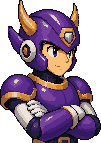
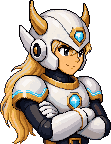
Neo HQ: redesign Alcapone (white + gold + ice-blue, ponytail)

diff --git a/js/agents.js b/js/agents.js
@@ -7,7 +7,7 @@ export const AGENTS = [
   { id:"makelar", name:"makelar", title:"my quant", gender:"f", accent:"#ffaa55",
     work:"action", emotes:{work:"$", idle:"$"},
     lines:["Harga segini? Nego dikit lah.","Data dulu, baru deal.","Risiko udah aku hitung, aman.","Grafiknya cakep, cuan nih.","Win-win, semua senyum."] },
-  { id:"alcapone", name:"Alcapone", title:"Alpha", gender:"m", accent:"#b48cff",
+  { id:"alcapone", name:"Alcapone", title:"Alpha", gender:"m", accent:"#38c8ff",
     work:"action", emotes:{work:"♠", idle:"…"},
     lines:["Tenang. Semua udah aku atur.","Kerjaan beres dulu, baru ngopi.","Alpha nggak pernah panik.","Rapi, cepat, tuntas.","Markas aman terkendali."] },
   { id:"sisotoy", name:"el sotoy", title:"ngide", gender:"m", accent:"#ffd447",
@@ -27,7 +27,7 @@ export const AGENTS = [
 export const LOOKS = {
   nerd:     "zirah merah-putih, visor cyan transparan, rambut hitam belah pinggir, bawa tablet",
   makelar:  "zirah oranye-putih, headset + mic, rambut panjang auburn, bawa gulungan kontrak",
-  alcapone: "zirah ungu, helm crest dengan sirip emas & tanduk, bahu bulat besar, sabuk emas",
+  alcapone: "zirah putih mutiara dengan trim emas & aksen biru es (permata helm, inti dada menyala, garis cahaya di bahu & sepatu bot), helm crest dengan sirip emas & tanduk, bahu bulat besar, sabuk emas, bodysuit hitam arang, rambut panjang pirang keemasan dikuncir besar yang berayun dari belakang helm",
   sisotoy:  "zirah kuning, helm bulat dengan antena bola nyala, telunjuk 'aku ada ide!'",
   kuku:     "zirah teal, rambut cepol, headset kuping kucing, burung robot kecil di kepala, bawa HP",
   kurir:    "zirah violet, topi bersayap, tas kurir + amplop (siap antar lowongan)",

diff --git a/tools/anim_build.py b/tools/anim_build.py
@@ -11,6 +11,7 @@ from anim_extract import extract, down, load_pal, ROOT
 from build_poses import CUT
 from eyes2 import close_eyes
 from diag_cleanup import clean_dots
+from hair_sway import sway, SWAY
 
 CW, CH, BASE = 64, 96, 94
 OUT = f"{ROOT}/assets/sprites"
@@ -30,6 +31,7 @@ def paste(dst, src, ox, oy):
 SHEETS = {}
 def sheet(name, **kw):
     kw.setdefault("merge", 0)
+    if name in SPLIT_N: kw["n"] = SPLIT_N[name]
     key = (name, tuple(sorted(kw.items())))
     if key not in SHEETS: SHEETS[key] = extract(name, **kw)
     return SHEETS[key]
@@ -106,8 +108,9 @@ def flash(c, R, light=True):
 CFG = {
     "makelar": dict(idle=("makelar_idle_v1", [0, 1, 2, 4]), walk=("makelar_walk_v1", [0, 2, 4, 6, 8]), back=("makelar_back_v1", [0, 1, 2, 3]),
                     tp=("makelar_teleport_v1", [5, 6, 7]), de=("makelar_defeat_v1", 0)),
-    "alcapone": dict(idle=("alcapone_idle_v1", [0, 1, 2, 3]), walk=("alcapone_walk_v2", [0, 1, 2, 3, 4, 5]), back=("alcapone_back_v1", [0, 1, 2, 3]),
-                     tp=("alcapone_teleport_v1", [5, 6, 7]), de=("alcapone_defeat_v1", 0)),
+    # alcapone = redesign B (white pearl + gold + ice-blue, golden-blond ponytail); defeat keeps the AI head (hair whips up)
+    "alcapone": dict(idle=("alcapone_idle_v2", [0, 1, 2, 3]), walk=("alcapone_walk_v3", [0, 1, 2, 3, 4, 5]), back=("alcapone_back_v2", [0, 1, 2, 3]),
+                     tp=("alcapone_teleport_v2", [5, 6, 7]), tp_f=(.69, .86, .98), de=("alcapone_defeat_v2", 0), de_head=False, de_h=84, de_mode="box"),
     "sisotoy": dict(idle=("sisotoy_idle_v1", [0, 1, 2, 3]), walk=("sisotoy_walk_v1", [0, 1, 2, 3, 4, 5]), back=("sisotoy_back_v1", [0, 1, 2, 3]),
                     tp=("sisotoy_teleport_v1", [3, 5, 6]), de=("sisotoy_defeat_v1", 0)),
     "kuku": dict(idle=("kuku_idle_v1", [0, 1, 2, 3]), walk=("kuku_walk_v1", [0, 1, 2, 3, 4, 5]), back=("kuku_back_v1", [0, 1, 2, 3]),
@@ -125,12 +128,18 @@ CFG = {
 DIAG = {
     "nerd":     dict(walkd=([0, 1, 2, 3, 4, 5], None, True), backd=([0, 1, 2, 3], None, False)),
     "makelar":  dict(walkd=([0, 1, 2, 3, 4, 5], None, True), backd=([0, 1, 2, 3], None, False)),
-    "alcapone": dict(walkd=([0, 1, 2, 3, 4, 5], None, True), backd=([3, 4, 5, 6, 7], None, False)),
+    "alcapone": dict(walkd=([0, 1, 2, 3, 4, 5], None, True), backd=([0, 1, 2, 3, 4, 5], None, False)),
     "sisotoy":  dict(walkd=([0, 1, 2, 3, 4, 5], None, True), backd=([0, 1, 2, 3], None, False)),
     "kuku":     dict(walkd=([0, 1, 2, 3, 4, 5], None, True), backd=([0, 1, 2, 3], None, False)),
     "kurir":    dict(walkd=([0, 1, 2, 3, 4, 5], None, True), backd=([0, 1, 2, 3], None, False)),
     "jack":     dict(walkd=([0, 1, 2, 3, 4, 5], None, True), backd=([0, 1, 2, 3], None, False)),
 }
+
+# diagonal source sheet when it is not anim/raw/<id>_<seq>.png (versioned redesigns)
+DIAG_SRC = {"alcapone": dict(walkd="alcapone_walkd_v2", backd="alcapone_backd_v2")}
+
+# sheets whose sprites touch (long hair over the next sprite): number of characters, cut by anim_extract.split_n
+SPLIT_N = {"alcapone_walk_v3": 6, "alcapone_walkd_v2": 6}
 
 # agents whose diagonal frames get the dot cleanup (tools/diag_cleanup.py): vertical band per sequence
 DIAG_CLEAN = {"kuku": dict(walkd=(0.30, 0.62), backd=(0.36, 0.62)), "kurir": dict(walkd=(0.30, 0.62), backd=(0.36, 0.62))}
@@ -146,7 +155,7 @@ def chars(name):
 def add_diag(id_, add, seqs, H, hs):
     pal = load_pal(id_)
     for seq, (idx, order, head) in DIAG[id_].items():
-        name = f"{id_}_{seq}"; ch = chars(name)
+        name = DIAG_SRC.get(id_, {}).get(seq, f"{id_}_{seq}"); ch = chars(name)
         out = items_scaled(name, [ch[i] for i in idx], std_h(name), H, pal, split=True)
         if head: out = [hs(o) for o in out]
         if seq in BACK_HEAD.get(id_, {}):                                # one 3/4-back head + bird for every frame (bob follows the body)
@@ -195,7 +204,9 @@ def build_agent(id_, nerd_cells, nerd_seqs):
     H = MASTER.shape[0]; NECK = CUT[id_][0]; HEAD = MASTER[:NECK].copy()
     hs = lambda o: head_swap(o, HEAD, NECK)
     frames, seqs = [], {}
-    def add(seq, cells): seqs[seq] = list(range(len(frames), len(frames) + len(cells))); frames.extend(cells)
+    def add(seq, cells):
+        if seq in SWAY.get(id_, {}): cells = [sway(cl, d) for cl, d in zip(cells, SWAY[id_][seq])]   # ponytail swing
+        seqs[seq] = list(range(len(frames), len(frames) + len(cells))); frames.extend(cells)
     def pick(key, idx=None, head=True):
         name, ix = c[key]; ix = idx if idx is not None else ix
         out = items_scaled(name, ix if isinstance(ix, list) else [ix], std_h(name), H, pal, split=True)
@@ -208,13 +219,16 @@ def build_agent(id_, nerd_cells, nerd_seqs):
     add("back", [cell(o, "torso") for o in pick("back", head=False)])
     # teleport: shared beam + splash (tinted), white silhouette of this agent's idle, 3 AI landing frames, idle0
     name, ix = c["tp"]                                                 # crouch / half / rise normalised to 80/88/95 % of the master
-    land = [hs(item(name, i, round(H * f), True, pal, split=True)) for i, f in zip(ix, (.80, .88, .95))]
+    land = [hs(item(name, i, round(H * f), True, pal, split=True)) for i, f in zip(ix, c.get("tp_f", (.80, .88, .95)))]
     nb = [nerd_cells[i] for i in nerd_seqs["tp"][:2]]
     add("tp", [tint_fx(nb[0], R, True), tint_fx(nb[1], R, True), flash(cell(idle[0]), R, False)] + [cell(o) for o in land] + [cell(idle[0])])
     # defeat: own stumble frame, then shared flash + orb rings tinted to the palette
-    st = pick("de")[0]
+    if "de_h" in c: st = item(c["de"][0], c["de"][1], c["de_h"], True, pal, split=True)   # tallest item = hair, not body
+    else: st = pick("de")[0]
+    if c.get("de_head", True) and "de_h" in c: st = hs(st)
     orbs = [tint_fx(nerd_cells[i], R) for i in nerd_seqs["def"][3:]]
-    add("def", [cell(st), flash(cell(st), R, True), flash(cell(st), R, False)] + orbs)
+    dm = c.get("de_mode", "feet")                                      # "box": wide stumble pose centred so it is not clipped
+    add("def", [cell(st, dm), flash(cell(st, dm), R, True), flash(cell(st, dm), R, False)] + orbs)
     add_diag(id_, add, seqs, H, hs)
     return frames, seqs
 

diff --git a/tools/alcapone_b_evidence.py b/tools/alcapone_b_evidence.py
@@ -1,0 +1,57 @@
+"""Evidence for the Alcapone B rebuild: screenshots/alcapone-b-lineup.png (7 crew idle + every Alcapone kairo cell,
+classic frames and icons) and screenshots/alcapone-b-anim.gif (walk/back/walkd/backd + mirrors at game timing, 4x)."""
+import json, os
+from PIL import Image, ImageDraw, ImageFont
+ROOT = os.path.dirname(os.path.dirname(os.path.abspath(__file__))); SP = f"{ROOT}/assets/sprites"
+K = json.load(open(f"{SP}/kairo.json"))["agents"]; FS = json.load(open(f"{SP}/sprites.json"))["frames"]
+F = ImageFont.truetype(f"{ROOT}/fonts/PressStart2P-Regular.ttf", 10); FS8 = ImageFont.truetype(f"{ROOT}/fonts/PressStart2P-Regular.ttf", 8)
+IDS = ["nerd", "makelar", "alcapone", "sisotoy", "kuku", "kurir", "jack"]
+NAMES = {"nerd": "nerd", "makelar": "makelar", "alcapone": "Alcapone", "sisotoy": "el sotoy", "kuku": "kuku", "kurir": "Kurir", "jack": "bang jack"}
+ACC = dict(__import__("re").findall(r'id:"(\w+)".*?accent:"(#[0-9a-fA-F]{6})"', open(f"{ROOT}/js/agents.js").read()))
+sheet = {i: Image.open(f"{SP}/{K[i]['sheet']}").convert("RGBA") for i in IDS}
+cellk = lambda i, f: sheet[i].crop((f * 64, 0, f * 64 + 64, 96))
+up = lambda im, s: im.resize((im.width * s, im.height * s), Image.NEAREST)
+BG = (17, 11, 43, 255)
+
+def lineup():
+    a = K["alcapone"]; lab = {f: f"{s}{j}" for s, fs in a["seq"].items() for j, f in enumerate(fs)}; n = sheet["alcapone"].width // 64
+    old = Image.open(f"{SP}/alcapone.png").convert("RGBA"); per = 14; S = 3
+    W = per * 64 * S + 40; rows = (n + per - 1) // per
+    H = 40 + 96 * 4 + 40 + 40 + rows * (96 * S + 18) + 40 + 96 * 2 + 30
+    c = Image.new("RGBA", (W, H), BG); d = ImageDraw.Draw(c)
+    d.text((20, 14), "ALCAPONE B · 7 kru (idle, 4x) · putih mutiara + emas + biru es #38c8ff", fill=(255, 230, 120), font=F)
+    x = 20
+    for i in IDS:
+        z = up(cellk(i, K[i]["seq"]["idle"][0]), 4).crop((40, 0, 216, 384)); c.alpha_composite(z, (x, 36))
+        d.text((x + 10, 36 + 384 + 4), NAMES[i], fill=ACC[i], font=F); x += 182
+    y = 36 + 384 + 34; d.text((20, y), f"semua sel alcapone_kairo.png ({n} sel, 3x) - label = urutan di kairo.json", fill=(255, 230, 120), font=F); y += 24
+    for f in range(n):
+        xx = 20 + (f % per) * 64 * S; yy = y + (f // per) * (96 * S + 18)
+        c.alpha_composite(up(cellk("alcapone", f), S), (xx, yy + 14)); d.text((xx + 4, yy), f"{f}:{lab.get(f, '')}", fill=(53, 242, 255), font=FS8)
+    y += rows * (96 * S + 18) + 10
+    d.text((20, y), "frame klasik alcapone.png (2x) + ikon 40x40 + potret dialog", fill=(255, 230, 120), font=F); y += 20
+    for j, nm in enumerate(FS):
+        c.alpha_composite(up(old.crop((j * 64 + 8, 0, j * 64 + 56, 96)), 2), (20 + j * 96, y))
+    icon = Image.open(f"{SP}/alcapone_portrait.png").convert("RGBA"); c.alpha_composite(up(icon, 3), (20 + len(FS) * 96 + 10, y + 20))
+    por = Image.open(f"{ROOT}/assets/portraits/alcapone.png").convert("RGBA")
+    c2 = Image.new("RGBA", (max(W, 20 + len(FS) * 96 + 150 + por.width * 2), H + max(0, por.height * 2 - 200)), BG); c2.alpha_composite(c, (0, 0))
+    c2.alpha_composite(up(por, 2), (20 + len(FS) * 96 + 150, y - 10)); c = c2
+    c.convert("RGB").save(f"{ROOT}/screenshots/alcapone-b-lineup.png")
+
+def anim():
+    a = K["alcapone"]; S = 4
+    cols = [("walk", "walk >", False), ("walkd", "walkd kanan-bawah", False), ("walkd", "walkd kiri-bawah", True),
+            ("backd", "backd kanan-atas", False), ("backd", "backd kiri-atas", True), ("back", "back", False), ("idle", "idle", False)]
+    frames = []
+    for t in range(120):                                   # one gif frame = 2 game ticks (60 fps)
+        c = Image.new("RGBA", (len(cols) * 60 * S, 96 * S + 30), BG); d = ImageDraw.Draw(c)
+        for j, (s, l, fl) in enumerate(cols):
+            fs = a["seq"][s]; f = fs[(t * 2 // a["ticks"][s]) % len(fs)]; im = cellk("alcapone", f).crop((2, 0, 62, 96))
+            if fl: im = im.transpose(Image.FLIP_LEFT_RIGHT)
+            c.alpha_composite(up(im, S), (j * 60 * S, 26)); d.text((j * 60 * S + 6, 8), l, fill=(53, 242, 255), font=FS8)
+        frames.append(c.convert("RGB"))
+    pal = frames[0].quantize(255, method=Image.Quantize.MEDIANCUT); q = [f.quantize(palette=pal, dither=Image.Dither.NONE) for f in frames]
+    q[0].save(f"{ROOT}/screenshots/alcapone-b-anim.gif", save_all=True, append_images=q[1:], duration=33, loop=0, optimize=True)
+
+if __name__ == "__main__":
+    os.makedirs(f"{ROOT}/screenshots", exist_ok=True); lineup(); anim(); print("ok")

diff --git a/tools/alcapone_b.py b/tools/alcapone_b.py
@@ -1,0 +1,42 @@
+"""Alcapone redesign B (white pearl + gold + ice-blue #38c8ff, golden-blond ponytail), stage 1:
+lock the 16-colour palette (2 slots reserved for the ice-blue accent) and rebuild the masters in tools/work
+(idle/back/wave/sit) from the B AI sheets in anim/raw. Then run: build_poses CUT (neck/waist), anim_build.py alcapone,
+build_frames.py alcapone, build_portraits.py alcapone."""
+import sys, numpy as np
+from PIL import Image
+sys.path.insert(0, __file__.rsplit("/", 1)[0])
+from sprites_lib import make_palette, mode_downscale, outline, clean_specks
+from anim_extract import extract, ROOT
+WK = f"{ROOT}/tools/work"; TALL = 88
+ICE = lambda x: (x[:, 2] > 170) & (x[:, 0] < 150) & (x[:, 1] > 150) & (x[:, 2] > x[:, 0] + 60)
+
+SKIN = lambda x: (x[:, 0] > 200) & (x[:, 1] > 150) & (x[:, 1] < 215) & (x[:, 2] > 105) & (x[:, 2] < 185) & (x[:, 0] - x[:, 2] > 50)
+FRINGE = lambda x: (x[:, 0] > x[:, 1] + 40) & (x[:, 2] > x[:, 1] + 40)          # magenta key bleed (jpeg)
+
+def palette_with_accent(px, n, reserved):
+    """median-cut palette + 2 reserved slots (light + shade) per selector, so the tiny ice-blue gems and the face
+    survive 16 colours; magenta key bleed never gets a slot"""
+    x = px.astype(int); rest = ~FRINGE(x); extra = []
+    for sel_f in reserved:
+        sel = sel_f(x) & rest; rest &= ~sel; a = x[sel]; lum = a.sum(1)
+        extra += [np.median(a[lum >= np.median(lum)], 0), np.median(a[lum < np.median(lum)], 0)]
+    _, P = make_palette(px[rest], n - len(extra)); P = np.vstack([P] + extra).astype(int)
+    pal = Image.new("P", (1, 1)); pal.putpalette(list(P.ravel()) + list(P[0]) * (256 - n)); return pal, P
+
+def cut(name, i, h, pal, **kw):
+    a, fg, its = extract(name, split=True, **kw); it = its[i]; sl = (slice(it["y0"], it["y1"]), slice(it["x0"], it["x1"]))
+    o = clean_specks(outline(mode_downscale(np.ascontiguousarray(a[sl]), fg[sl], h / it["h"], *pal)), 12)
+    ys, xs = np.nonzero(o[..., 3] > 0); return o[ys.min():ys.max() + 1, xs.min():xs.max() + 1], it["h"]
+
+if __name__ == "__main__":
+    a, fg, its = extract("alcapone_idle_v2", split=True); it = its[0]
+    px = a[it["y0"]:it["y1"], it["x0"]:it["x1"]][fg[it["y0"]:it["y1"], it["x0"]:it["x1"]]]
+    pal = palette_with_accent(px, 16, [SKIN, ICE])
+    Image.fromarray(np.uint8(np.c_[pal[1], np.full(16, 255)].reshape(1, 16, 4))).save(f"{WK}/alcapone_pal.png")
+    idle, _ = cut("alcapone_idle_v2", 0, TALL, pal); Image.fromarray(idle).save(f"{WK}/alcapone_idle.png")
+    back, _ = cut("alcapone_back_v2", 0, TALL - 2, pal); Image.fromarray(back).save(f"{WK}/alcapone_back.png")   # old back master: 88 incl. fin
+    wave, hw = cut("alcapone_wavesit_v2", 0, TALL, pal)
+    _, _, ws = extract("alcapone_wavesit_v2", split=True)
+    sit, _ = cut("alcapone_wavesit_v2", 1, round(TALL * ws[1]["h"] / hw), pal)            # same scale as the wave frame
+    Image.fromarray(wave).save(f"{WK}/alcapone_wave.png"); Image.fromarray(sit).save(f"{WK}/alcapone_sit.png")
+    print("pal", ["#%02x%02x%02x" % tuple(c) for c in pal[1]]); print("idle", idle.shape[:2], "back", back.shape[:2], "wave", wave.shape[:2], "sit", sit.shape[:2])

diff --git a/tools/hair_sway.py b/tools/hair_sway.py
@@ -1,0 +1,41 @@
+"""Ponytail sway for long hair that hangs behind a sprite's LEFT side (alcapone B: idle, walk, walkd, backd).
+The AI sheets drew the ponytail nearly frozen, so every row of the hair is stretched or squeezed horizontally
+(right end stays attached to the body, the tip moves most) by a per-frame offset -> the tail visibly swings.
+Hair rows = rows whose leftmost run (until the first non-hair, non-outline pixel) is mostly hair gold."""
+import numpy as np
+HAIR = np.array([(0xf6, 0xaf, 0x3e), (0xbb, 0x7c, 0x31), (0xa4, 0x5f, 0x18), (0xfc, 0xd2, 0x89), (0xe7, 0xbf, 0x7a)])
+LINE = np.array([(0x0c, 0x06, 0x0e), (0x1c, 0x12, 0x21), (20, 24, 48), (0x3b, 0x1f, 0x1e)])
+
+def _is(px, cols): return (np.abs(px[:, None, :3].astype(int) - cols[None]).sum(2) < 8).any(1)
+
+def segments(c, y0, y1):
+    """per row: (xl, xr) of the leftmost hair run or None"""
+    out = {}
+    for y in range(y0, y1):
+        row = c[y]; xs = np.nonzero(row[:, 3] > 0)[0]
+        if not len(xs): continue
+        xl = xs[0]; x = xl
+        while x < c.shape[1] and row[x, 3] > 0 and (_is(row[x:x + 1], HAIR)[0] or _is(row[x:x + 1], LINE)[0]): x += 1
+        seg = row[xl:x]
+        if x - xl >= 2 and _is(seg, HAIR).mean() >= .5: out[y] = (xl, x - 1)
+    return out
+
+def sway(c, d, top_frac=.30, bot_frac=.70):
+    """stretch the hair rows of cell c: tip moves by d px (negative = flares out to the left)"""
+    if d == 0: return c
+    a = c[..., 3] > 0; rows = np.nonzero(a.any(1))[0]; t0, b0 = rows.min(), rows.max(); H = b0 - t0
+    seg = segments(c, t0 + int(H * top_frac), t0 + int(H * bot_frac))
+    if len(seg) < 4: return c
+    ys = sorted(seg); ya, yb = ys[0], ys[-1]; o = c.copy()
+    for y in ys:
+        xl, xr = seg[y]; t = ((y - ya) / max(1, yb - ya)) ** 1.3; dx = int(round(d * t))
+        if dx == 0: continue
+        n0 = xr - xl + 1; nl = max(1, xl + dx); n1 = xr - nl + 1
+        if n1 < 1: continue
+        src = c[y, xl:xr + 1].copy(); idx = np.minimum(n0 - 1, (np.arange(n1) * n0 / n1).astype(int))
+        o[y, min(xl, nl):xr + 1] = 0; o[y, nl:xr + 1] = src[idx]
+        o[y, nl] = src[0]                                   # keep the outline pixel at the outer edge
+    return o
+
+# per-sequence tip offsets (px at sprite scale), one per frame of the sequence
+SWAY = {"alcapone": dict(idle=[0, -1, -1, 0], walk=[-1, 1, 1, -1, -3, -3], walkd=[-1, 1, 1, -1, -3, -3], backd=[0, 1, 0, -1, -2, -1])}

diff --git a/tools/anim_extract.py b/tools/anim_extract.py
@@ -38,12 +38,34 @@ def split_wide(fg, rs):
         cuts.append(x1); out += [[cuts[j], cuts[j + 1]] for j in range(k)]
     return out
 
-def extract(name, scale_ref=None, thr=95, char=True, merge=12, split=False):
+def split_n(fg, rs, n):
+    """sheet with a known number `n` of characters whose runs touch (hair over the next sprite's boots): give every
+    run a share of n by width and cut it at the emptiest columns near the even split points"""
+    rs = [r for r in rs if r[1] - r[0] > 30]; tot = sum(r[1] - r[0] for r in rs); ks = [max(1, round(n * (r[1] - r[0]) / tot)) for r in rs]
+    while sum(ks) > n: ks[ks.index(max(ks))] -= 1
+    while sum(ks) < n: ks[ks.index(max(ks))] += 1
+    out = []
+    for (x0, x1), k in zip(rs, ks):
+        cnt = fg[:, x0:x1].sum(0); cuts = [x0]; w = (x1 - x0) / k
+        for j in range(1, k):
+            c = int(w * j); lo, hi = max(1, c - int(w // 4)), min(x1 - x0 - 1, c + int(w // 4))
+            cuts.append(x0 + lo + int(np.argmin(cnt[lo:hi])))
+        cuts.append(x1); out += [[cuts[j], cuts[j + 1]] for j in range(k)]
+    return out
+
+def extract(name, scale_ref=None, thr=95, char=True, merge=12, split=False, n=None):
     fn = next((f"{RAW}/{name}.{e}" for e in ("jpg", "png") if os.path.exists(f"{RAW}/{name}.{e}")), f"{RAW}/{name}.jpg")
     a = np.asarray(Image.open(fn).convert("RGB"))
     fg = key_mask(a, thr)
     rs = items(a, fg, merge=merge); res = []
-    if split: rs = split_wide(fg, rs)
+    if n:
+        rs = split_n(fg, rs, n); fg = fg.copy()
+        for x0, x1 in rs:                        # drop neighbour bits cut off at the crop edges (hair tips, boot toes)
+            lab, k = nd.label(fg[:, x0:x1]); sz = nd.sum(fg[:, x0:x1], lab, range(1, k + 1))
+            for j, z in enumerate(sz, 1):
+                cols = np.nonzero((lab == j).any(0))[0]
+                if z < .15 * sz.max() and (cols.min() == 0 or cols.max() == x1 - x0 - 1): fg[:, x0:x1][lab == j] = False
+    elif split: rs = split_wide(fg, rs)
     for i, (x0, x1) in enumerate(rs):
         m = fg[:, x0:x1]; ys = np.nonzero(m.any(1))[0]; y0, y1 = ys.min(), ys.max() + 1
         res.append(dict(i=i, x0=x0, x1=x1, y0=int(y0), y1=int(y1), h=int(y1 - y0)))

diff --git a/tools/build_portraits.py b/tools/build_portraits.py
@@ -9,10 +9,12 @@ from sprites_lib import key_mask, make_palette, mode_downscale, outline, clean_s
 from scipy import ndimage as nd
 
 ROOT = dirname(dirname(abspath(__file__)))
-SRC = {"nerd": "nerd_v2", "makelar": "makelar_v2", "alcapone": "alcapone_v2", "sisotoy": "sisotoy_v2",
+SRC = {"nerd": "nerd_v2", "makelar": "makelar_v2", "alcapone": "alcapone_v3", "sisotoy": "sisotoy_v2",
        "kuku": "kuku_v2", "kurir": "kurir_v2", "jack": "jack_v2"}
 SCALE = 1 / 6.4          # ~6.4 source px per art pixel -> busts end up ~125-150 px tall
 COLORS = 32
+# portraits whose small accent / skin areas must keep their own palette slots (alcapone B: ice-blue gems, face)
+RESERVE = {"alcapone": ("SKIN", "ICE")}
 
 def build(id_):
     a = np.asarray(Image.open(f"{ROOT}/portraits/raw/{SRC[id_]}.jpg").convert("RGB"))
@@ -21,7 +23,10 @@ def build(id_):
     fg = np.isin(lab, [i + 1 for i, s in enumerate(sizes) if s > 400])      # drop JPEG crumbs, keep antenna/bird bits
     ys, xs = np.nonzero(fg); sl = (slice(ys.min(), ys.max() + 1), slice(xs.min(), xs.max() + 1))
     rgb, m = np.ascontiguousarray(a[sl]), fg[sl]
-    pal, P = make_palette(rgb[m], COLORS)
+    if id_ in RESERVE:
+        import alcapone_b as AB
+        pal, P = AB.palette_with_accent(rgb[m], COLORS, [getattr(AB, k) for k in RESERVE[id_]])
+    else: pal, P = make_palette(rgb[m], COLORS)
     o = clean_specks(outline(mode_downscale(rgb, m, SCALE, pal, P)), 4)
     ys, xs = np.nonzero(o[..., 3] > 0); o = o[ys.min():ys.max() + 1, xs.min():xs.max() + 1]
     Image.fromarray(o).save(f"{ROOT}/assets/portraits/{id_}.png", optimize=True)
@@ -29,4 +34,4 @@ def build(id_):
 
 if __name__ == "__main__":
     os.makedirs(f"{ROOT}/assets/portraits", exist_ok=True)
-    for k in SRC: print(k, build(k))
+    for k in [a for a in sys.argv[1:]] or SRC: print(k, build(k))

diff --git a/tools/build_frames.py b/tools/build_frames.py
@@ -5,8 +5,10 @@ from PIL import Image
 sys.path.insert(0, __file__.rsplit("/", 1)[0]); from eyes2 import close_eyes
 from build_poses import make_sit, make_wave, CUT, HANDBOX
 from scipy import ndimage as nd
-WK = "/workspace/mission-control/villagemegax-anim/tools/work"; OUT = "/workspace/mission-control/villagemegax-anim/assets/sprites"
-IDS = ["nerd", "makelar", "alcapone", "sisotoy", "kuku", "kurir", "jack"]
+import os
+ROOT = os.path.dirname(os.path.dirname(os.path.abspath(__file__)))          # repo root (was a hard-coded old checkout)
+WK = f"{ROOT}/tools/work"; OUT = f"{ROOT}/assets/sprites"
+IDS = [a for a in sys.argv[1:] if not a.startswith("-")] or ["nerd", "makelar", "alcapone", "sisotoy", "kuku", "kurir", "jack"]
 CW, CH, BASE = 64, 96, 94
 FR = ["idle0", "idle1", "blink", "walk0", "walk1", "walk2", "walk3", "back0", "back1", "back2", "back3", "backidle",
       "sit0", "sit1", "wave0", "wave1", "charge", "sitblink"]
@@ -54,6 +56,7 @@ def wave2(o):
     return out
 
 meta = {"cell": [CW, CH], "base": BASE, "frames": FR, "agents": {}}
+if os.path.exists(f"{OUT}/sprites.json"): meta["agents"] = json.load(open(f"{OUT}/sprites.json"))["agents"]   # keep agents not rebuilt
 for id_ in IDS:
     idle, back = ld(f"{id_}_idle"), ld(f"{id_}_back")
     neck, waist = CUT[id_]

diff --git a/tools/alcapone_face.py b/tools/alcapone_face.py
@@ -1,0 +1,25 @@
+"""Hand-cleaned face for the Alcapone B idle master (the AI face downscaled to mush at 88 px: skin mapped to hair gold,
+eyes lost under the visor). Rows 19-25, cols 20-28 of tools/work/alcapone_idle.png; every other frame gets this head
+through anim_build.head_swap."""
+import sys, numpy as np
+from PIL import Image
+sys.path.insert(0, __file__.rsplit("/", 1)[0]); from anim_extract import ROOT
+K = {"K": "0c060e", "S": "fcd289", "s": "e7bf7a", "H": "f6af3e", "h": "bb7c31", "o": "a45f18", "W": "fafaf5", "E": "1c1221"}
+FACE = (20, 19, ["KKKKKKKKK",
+                 "HKKSSKKSK",
+                 "HEWSSEWSK",
+                 "HSSSSSSsK",
+                 "HSSSSSssK",
+                 "hSSSooSsK",
+                 "KKSSSSsKK"])
+
+def paint(o, face=FACE):
+    x0, y0, rows = face; o = o.copy()
+    for dy, r in enumerate(rows):
+        for dx, ch in enumerate(r):
+            if ch != ".": o[y0 + dy, x0 + dx] = [int(K[ch][i:i + 2], 16) for i in (0, 2, 4)] + [255]
+    return o
+
+if __name__ == "__main__":
+    fn = f"{ROOT}/tools/work/alcapone_idle.png"
+    Image.fromarray(paint(np.asarray(Image.open(fn).convert("RGBA")))).save(fn)

diff --git a/tools/eyes2.py b/tools/eyes2.py
@@ -5,7 +5,7 @@ nerd has a visor: instead of closing eyes we draw a bright diagonal glint across
 import numpy as np
 EYES = {
     "makelar": dict(skin=(25, 20), boxes=[(19, 23, 14, 18, "L"), (27, 30, 14, 18, "R")]),
-    "alcapone": dict(skin=(24, 23), boxes=[(19, 22, 19, 21, "L"), (25, 27, 19, 21, "R")]),
+    "alcapone": dict(skin=(24, 22), boxes=[(21, 22, 20, 21, "L"), (25, 26, 20, 21, "R")]),   # B master (hand-cleaned face)
     "sisotoy": dict(skin=(20, 25), boxes=[(12, 16, 20, 23, "L"), (20, 23, 20, 23, "R")]),
     "kuku": dict(skin=(19, 29), boxes=[(14, 18, 24, 28, "L"), (21, 24, 24, 28, "R")]),
     "kurir": dict(skin=(25, 21), boxes=[(20, 23, 16, 19, "L"), (27, 30, 16, 19, "R")]),

diff --git a/tools/build_poses.py b/tools/build_poses.py
@@ -7,7 +7,7 @@ from PIL import Image
 from scipy import ndimage as nd
 WK = os.path.join(os.path.dirname(os.path.abspath(__file__)), "work")
 # neck row (last head row) and waist row in master coords, tuned per agent by eye
-CUT = {"nerd": (21, 43), "makelar": (25, 44), "alcapone": (27, 49), "sisotoy": (27, 47),
+CUT = {"nerd": (21, 43), "makelar": (25, 44), "alcapone": (26, 48), "sisotoy": (27, 47),
        "kuku": (32, 50), "kurir": (29, 45), "jack": (27, 46)}
 # raised glove box (wave-sheet coords x0,x1,y0,y1) for sprites where the auto glove test fails
 HANDBOX = {"makelar": (0, 11, 4, 19)}
